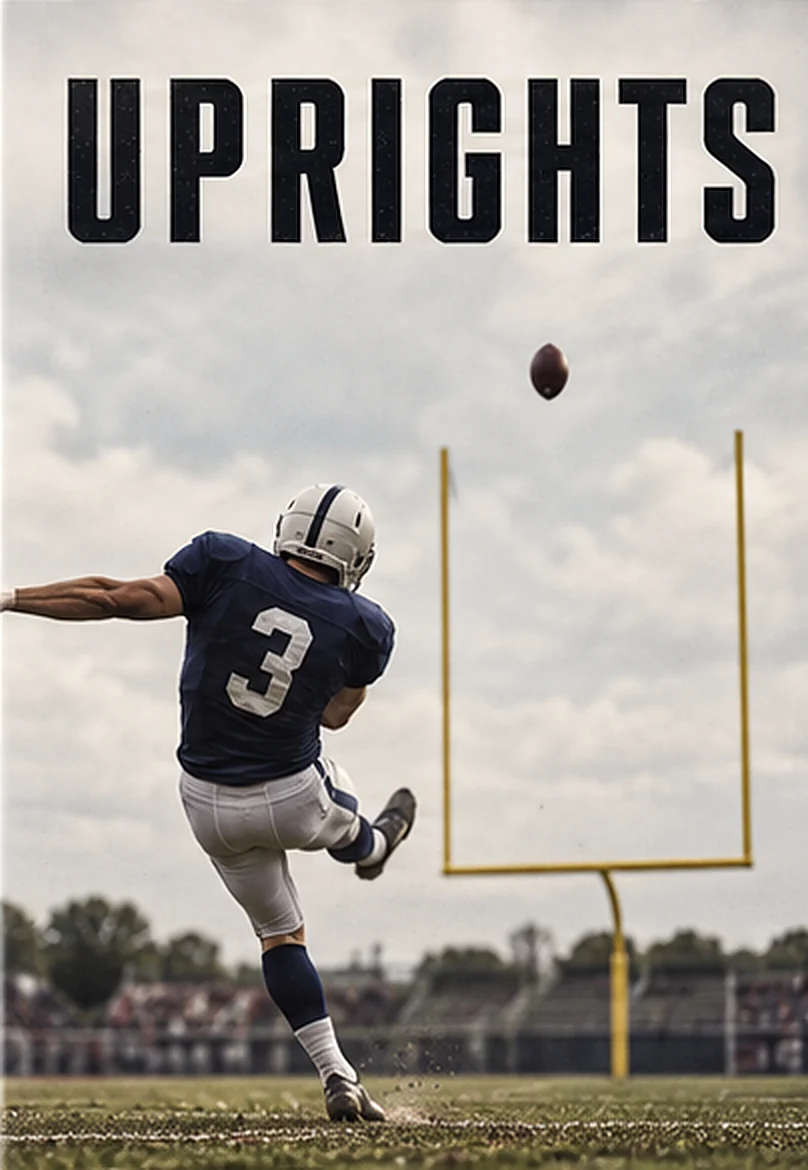
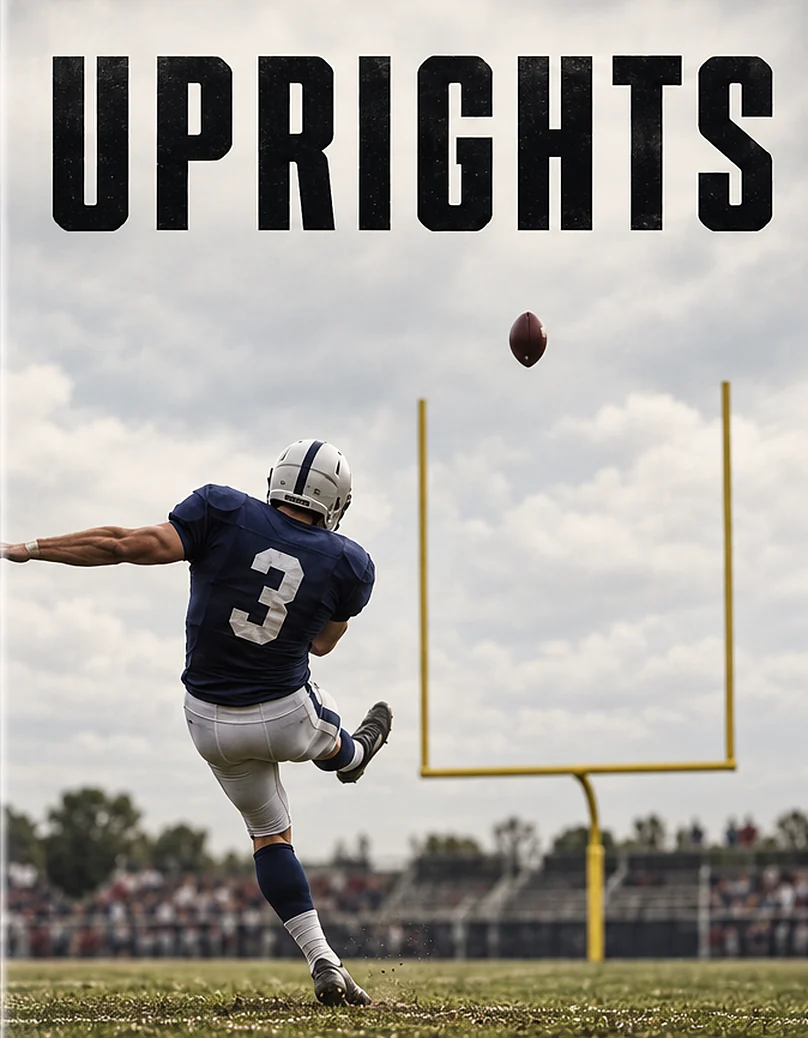
Daily Games: the owner's new covers in green cases; sw CACHE gg-v264
New covers for Daily Puzzles (the tic-tac-toe board), 17-0 (the trophy
in the locker room), Uprights (Kick It) and Return Man, cut from the
owner's art (the Two-Minute Drill keeps its cover). The cases now match
them: glossy green plastic, the Gridiron Hub name centered in brushed
silver on the band, and a case about 7:9 under the band (100:138, was
100:152) so the covers show whole. A game under way wears its sticker on
the cover's bottom right; the back's FINAL tag and the close button sit at
the band's right end. 17-0's colour on its back is now the trophy's gold.

Claude-Session: https://claude.ai/code/session_01AH8E1dTJHFZcRinqqkpkzG

diff --git a/css/views/puzzles.css b/css/views/puzzles.css
@@ -153,7 +153,7 @@ html.rm .screen.v-puzzles[data-path="/puzzles"]::before, html.rm .screen.v-puzzl
 }
 .v-puzzles .gm-slot.is-cur { z-index: 12; }
 .v-puzzles .gm-case {
-  position: relative; display: block; width: 100%; aspect-ratio: 100 / 152; padding: 0; border: 0; border-radius: 10px;
+  position: relative; display: block; width: 100%; aspect-ratio: 100 / 138; padding: 0; border: 0; border-radius: 10px;
   background: none; cursor: pointer; container-type: inline-size; -webkit-tap-highlight-color: transparent;
 }
 .v-puzzles .gm-case:focus-visible { outline: none; }
@@ -172,21 +172,35 @@ html.rm .screen.v-puzzles[data-path="/puzzles"]::before, html.rm .screen.v-puzzl
 .v-puzzles .gm-case.is-done > .gm-gloss { opacity: .5; }
 @media (prefers-reduced-motion: reduce) { .v-puzzles .gm-flip { transition: none; } }
 
-/* ---- The case: black plastic (a thicker lip on the opening side), the band with its rule, the cover */
+/* ---- The case: glossy green plastic (the owner's covers, Oct 2026: a thin lip on the spine side, a thicker one on the
+   opening side), the band with its rule, the cover. The case is as tall as the covers need (about 7:9) under the band. */
 .gm-front, .gm-back {
   --gm-cond: "Barlow Condensed", "Arial Narrow", sans-serif;
-  display: flex; flex-direction: column; padding: 2.4cqw 3.4cqw 2.8cqw 2cqw;
-  background: linear-gradient(90deg, #070708, #1E1E22 1.6%, #121214 6%, #111113 90%, #202024 95.5%, #0A0A0B);
-  box-shadow: 0 20px 34px -16px rgba(0,0,0,.85), inset 0 0 0 1px rgba(255,255,255,.17), inset 0 1.1cqw 0 rgba(255,255,255,.04);
+  display: flex; flex-direction: column; padding: 2.6cqw 3cqw 2cqw 1.6cqw;
+  background:
+    linear-gradient(rgba(255,255,255,.2), rgba(255,255,255,0) 2.4%, rgba(255,255,255,0) 97%, rgba(0,0,0,.22)),
+    linear-gradient(90deg, #2B4C0C, #6E9A3C .6%, #A6CD6A 1.1%, #5E8E22 1.6%, #4E8614 40%, #5A9117 95%, #86B23C 96.6%, #6C9C24 98%, #24500A);
+  box-shadow: 0 20px 34px -16px rgba(0,0,0,.85), inset 0 0 0 1px rgba(16,34,0,.55), inset 0 .5cqw 0 rgba(220,255,160,.22);
 }
+.gm-band, .gm-art, .gm-bk-in { box-shadow: 0 0 0 .3cqw rgba(16,34,0,.5); } /* (where the insert meets the plastic) */
 .gm-band {
-  flex: none; display: flex; align-items: center; justify-content: space-between; gap: 2cqw; min-height: 10cqw; padding: 0 2.4cqw 0 4cqw;
-  background: linear-gradient(#19191C, #0D0D0F); border-bottom: max(1px, .45cqw) solid #D9D9D9;
+  position: relative; flex: none; display: flex; align-items: center; justify-content: center; min-height: 10cqw; padding: 0 2.4cqw;
+  background: linear-gradient(#0C0C0E, #050506 62%, #17171A); border-bottom: max(1px, .45cqw) solid #E2E2DE;
 }
-.gm-band-t { min-width: 0; white-space: nowrap; font: 700 3.9cqw/1 var(--font-text); letter-spacing: .26em; color: #F4F4F4; }
+/* the name in brushed silver, spread wide (drawn a little wider than the system font) */
+.gm-band-t {
+  display: inline-block; min-width: 0; white-space: nowrap; padding-left: .58em; transform: scaleX(1.16);
+  font: 600 3.3cqw/1.2 var(--font-text); letter-spacing: .58em; color: #DCE3EA;
+  background: linear-gradient(#FFFFFF, #DCE3EA 38%, #8794A2 54%, #C3D0DC 76%, #F2F6FA); -webkit-background-clip: text; background-clip: text; -webkit-text-fill-color: transparent;
+}
+.gm-band > :not(.gm-band-t) { position: absolute; right: 2.4cqw; top: 50%; transform: translateY(-50%); }
 .gm-art { position: relative; flex: 1 1 auto; min-height: 0; display: block; overflow: hidden; background: #1A1A1D; }
 .gm-img { display: block; width: 100%; height: 100%; object-fit: cover; object-position: 50% 0; }
-.gm-stk { flex: none; padding: 1.1cqw 2cqw; border-radius: 1cqw; background: #FFD23F; color: #141414; font: 800 2.8cqw/1 var(--font-text); letter-spacing: .1em; }
+/* a sticker on the shrink wrap, bottom right of the cover (clear of its title), while a game's under way (or a test play) */
+.gm-stk {
+  position: absolute; bottom: 3cqw; right: 2.6cqw; padding: 1.3cqw 2.2cqw; border-radius: 1cqw; background: #FFD23F; color: #141414;
+  font: 800 2.9cqw/1 var(--font-text); letter-spacing: .1em; box-shadow: 0 .8cqw 2cqw rgba(0,0,0,.45);
+}
 .gm-stk.is-test { background: #3EF08F; }
 
 /* ---- The back (and the back up close): the cover faded behind the name, the result, the leaderboard */
@@ -271,7 +285,7 @@ html.rm .screen.v-puzzles[data-path="/puzzles"]::before, html.rm .screen.v-puzzl
 .gm-zoom .gm-z-case {
   position: relative; transform: none; -webkit-backface-visibility: visible; backface-visibility: visible; container-type: inline-size;
   width: min(100%, 420px); height: min(100%, 700px); border-radius: 18px; outline: none; padding: 2cqw 3cqw 2.4cqw 2cqw;
-  box-shadow: 0 30px 60px -20px rgba(0,0,0,.9), inset 0 0 0 1px rgba(255,255,255,.17), inset 0 1cqw 0 rgba(255,255,255,.04);
+  box-shadow: 0 30px 60px -20px rgba(0,0,0,.9), inset 0 0 0 1px rgba(16,34,0,.55), inset 0 .6cqw 0 rgba(220,255,160,.22);
 }
 .gm-zoom .gm-band { min-height: 13cqw; border-radius: 12px 12px 0 0; }
 .gm-zoom .gm-band-t { font-size: 3.4cqw; }

diff --git a/js/views/games.js b/js/views/games.js
@@ -201,11 +201,11 @@ const STATE = {puzzles: puzzlesState, '17-0': seventeenState, drill: drillState,
 
 // ============================================================================ The cases
 // The list is a shelf of game cases (the owner's ask, Oct 2026, after a console's shelf of box art): you swipe along
-// it; the case in the middle is the one you're on, its name and its Play under it. Each case is a black case, the
-// Gridiron Hub band across its top and the game's cover under it (the owner's art). Played today, a case turns round:
+// it; the case in the middle is the one you're on, its Play under it. Each case is a green case, the Gridiron Hub
+// band across its top and the game's cover under it (the owner's art). Played today, a case turns round:
 // its back is the leaderboard. Tap the back and it comes up close, Today's and the Season's to switch between.
 // ACCENT: each game's colour on its back (the tag, the switch), out of its cover.
-const ACCENT = {puzzles: '#B5452F', '17-0': '#2F7A4C', drill: '#D23B2F', kick: '#C9A227', return: '#A31F34'};
+const ACCENT = {puzzles: '#B5452F', '17-0': '#A0721F', drill: '#D23B2F', kick: '#C9A227', return: '#A31F34'};
 const bandHTML = (end = '') => `<span class="gm-band"><span class="gm-band-t">GRIDIRON HUB</span>${end}</span>`;
 const tileHTML = (big, small, cls = '') => `<span class="gm-tile ${cls}"><b class="n2">${esc(big)}</b>${small ? `<small>${esc(small)}</small>` : ''}</span>`;
 // A line under each row: what it was today, or over the season.
@@ -227,10 +227,10 @@ function seasonRowsOf(id) {
   return safe(() => M.seasonRows()).map(r => ({...r, val: `${nf(r.y)} yds`, sub: `${plural(r.played, 'day')} · longest ${nf(r.l)}`}));
 }
 const sticker = (cls, text) => `<span class="gm-stk ${cls}">${esc(text)}</span>`;
-/** A case's front: the band, the cover (a sticker on the band while it's under way). */
+/** A case's front: the band, the cover (a sticker on it while it's under way). */
 function frontHTML(g, s) {
   const stk = s.test ? sticker('is-test', 'TEST PLAY') : s.kind === 'started' ? sticker('is-go', 'IN PROGRESS') : '';
-  return `<div class="gm-face gm-front">${bandHTML(stk)}<span class="gm-art"><img class="gm-img" src="${g.art}" alt="" decoding="async" draggable="false"></span></div>`;
+  return `<div class="gm-face gm-front">${bandHTML()}<span class="gm-art"><img class="gm-img" src="${g.art}" alt="" decoding="async" draggable="false">${stk}</span></div>`;
 }
 function rowHTML(r, {sub = false} = {}) {
   const label = `${ui.ordinal(r.rank)}, ${r.name}${r.me ? ', you' : ''}${r.guest ? ', guest' : ''}: ${r.val}${r.letter ? `, grade ${r.letter}` : ''}${sub && r.sub ? `. ${r.sub}` : ''}`;

diff --git a/js/core/checks.js b/js/core/checks.js
@@ -1528,7 +1528,7 @@ export async function runChecks() {
 
   // The Daily Games list (Oct 2026): a shelf of game cases, each with its own cover (the owner's art), opening the game's
   // own page; a game played today is its scoreboard, read from the board as this phone may see it (THE RULE, CLAUDE.md).
-  check('Daily Games: a shelf of game cases (Daily Puzzles, 17-0, the Two-Minute Drill, Kick It, Return Man: the owner\'s alone while he tests it), each a black case with the Gridiron Hub band, its own cover and its own page; swiped along in a circle (its own sideways scroll, not the tabs\'); a game played today shows its case\'s back: today\'s board with you among them, and a Season board behind it, read from the board as this phone sees it', async () => {
+  check('Daily Games: a shelf of game cases (Daily Puzzles, 17-0, the Two-Minute Drill, Kick It, Return Man: the owner\'s alone while he tests it), each a green case with the Gridiron Hub band, its own cover and its own page; swiped along in a circle (its own sideways scroll, not the tabs\'); a game played today shows its case\'s back: today\'s board with you among them, and a Season board behind it, read from the board as this phone sees it', async () => {
     const host = document.createElement('div');
     host.innerHTML = listHTML();
     const want = data.me() === data.OWNER ? 'puzzles,17-0,drill,kick,return' : 'puzzles,17-0,drill,kick';

diff --git a/sw.js b/sw.js
@@ -7,7 +7,7 @@
 // A slow request falls back to whatever is cached under its path (from the previous worker too), so data whose
 // format changes gets a new file name rather than new content under the old one (data/puzzles-v4.json: see
 // js/core/daily.js).
-const CACHE = 'gg-v263';
+const CACHE = 'gg-v264';
 const CORE = ['ui', 'data', 'daily', 'fire', 'week', 'nfl', 'stats', 'motw', 'press', 'checks', 'checks-stats', 'checks-pickem', 'checks-press', 'checks-seventeen', 'checks-drill', 'checks-kick', 'return', 'checks-return', 'lay', 'plays', 'laytrack', 'seventeen', 'drill-sim', 'drill', 'kick', 'avatars', 'lpick', 'survivor', 'checks-lpick'];
 // The six tab roots are puzzles, pickem, rivals (Matchup), league, moves (Draft) and lay (The Lay).
 const VIEWS = ['welcome', 'guest', 'puzzles', 'games', 'board', 'you', 'sharecard', 'results', 'run', 'college', 'silhouette', 'mystery', 'journey', 'grid', 'picker',
